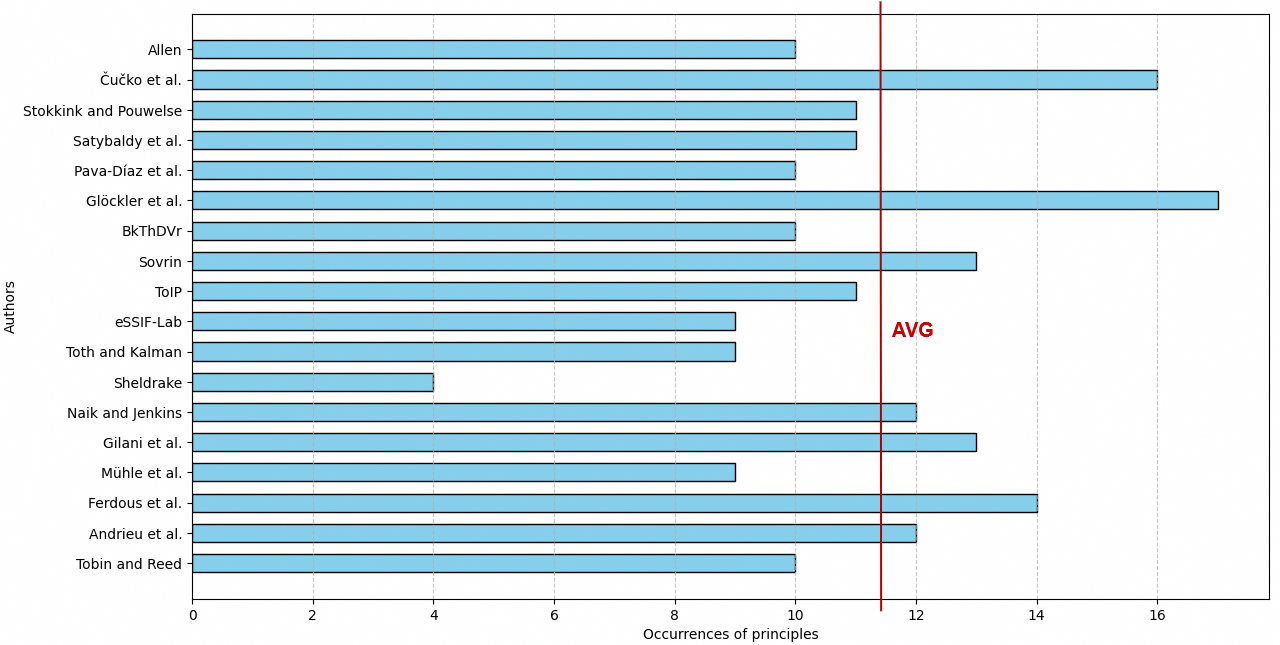
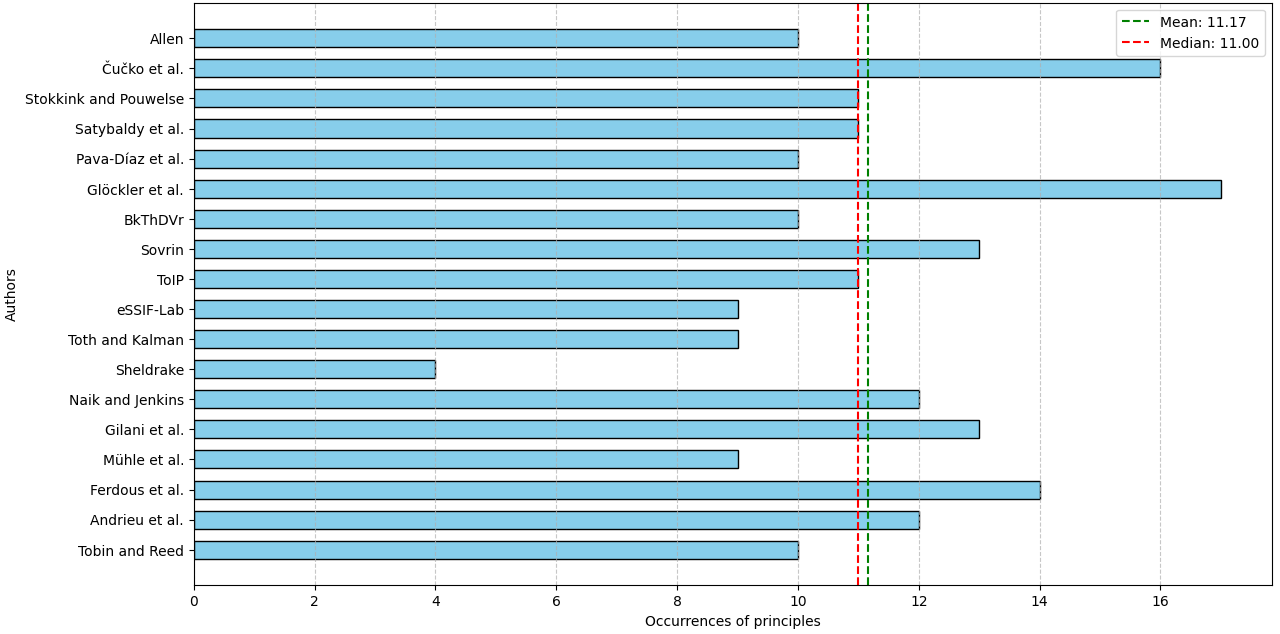
.

diff --git a/definition/program/recording_of_principles/Occurrences_principles.py b/definition/program/recording_of_principles/Occurrences_principles.py
@@ -24,22 +24,34 @@ dati = np.array([
     [1, 1, 1, 1, 1, 1, 1, 1, 1, 1, 0, 0, 0, 0, 0, 0, 0, 0, 0, 0, 0, 0, 0, 0, 0, 0, 0, 0, 0, 0, 0, 0, 0, 0],  # Allen
 ])
 
+# Compute occurrences per author
 sum_values = np.sum(dati[::-1], axis=1)
 
+# Calculate mean, median, and standard deviation
+media_occurrences = np.mean(sum_values)
+mediana_occurrences = np.median(sum_values)
+std_dev_occurrences = np.std(sum_values)
+
+# Create figure and plot
 plt.figure(figsize=(10, 6))
 bars = plt.barh(range(len(autori)), sum_values, color='skyblue', edgecolor="black", height=0.6)
+
+# Add mean and median lines
+plt.axvline(media_occurrences, color='green', linestyle='dashed', linewidth=1.5, label=f'Mean: {media_occurrences:.2f}')
+plt.axvline(mediana_occurrences, color='red', linestyle='dashed', linewidth=1.5, label=f'Median: {mediana_occurrences:.2f}')
+
+# Labels and title
 plt.xlabel("Occurrences of principles")
 plt.ylabel("Authors")
 plt.title("")
 
-# Imposta le etichette invertendo l'asse
+# Set y-axis labels with reversed order
 plt.yticks(range(len(autori)), autori[::-1])  
+plt.gca().invert_yaxis()  # Invert y-axis
 
-# Inverti l'asse Y per far apparire l'ultimo autore in cima
-plt.gca().invert_yaxis()
-
+# Grid and legend
 plt.grid(axis='x', linestyle='--', alpha=0.7)
-plt.show()
+plt.legend()
 
-media_occurrences = np.mean(sum_values)
-print(f"Media delle occorrenze dei principi per autore: {media_occurrences:.2f}")
+# Show plot
+plt.show()

diff --git a/definition/Definition.md b/definition/Definition.md
@@ -120,7 +120,7 @@ The study of outliers helps identify anomalies in the distribution of principles
 ![Principles selection](/definition/images/principles_recording/Distribution.png)
 *Figure 4: The distribution of principles.*
 
-t-SNE is a dimensionality reduction technique that helps visualize complex data in two or three dimensions.[^wattenberg] It reduces high-dimensional data to two dimensions while preserving the local structure of the data. Although it captures non-linear relationships, it does not preserve global distances, making visual interpretation purely qualitative. Each blue dot represents a concept, term, or feature, with labels indicating their meanings. The x-axis is labeled "Dimension 1," and the y-axis is labeled "Dimension 2," but these dimensions do not have intrinsic meanings—they simply represent how t-SNE has projected the relationships between data points. Based on the labels, this plot displays scattered principles with no apparent clear pattern to highlight key concepts. While some potential outliers, such as "Validity" and "Freedom of Information," can be observed, this visualization remains purely qualitative and does not provide new insights.
+t-SNE is a dimensionality reduction technique that helps visualize complex data in two or three dimensions.[^wattenberg] It reduces high-dimensional data to two dimensions while preserving the local structure of the data. Although it captures non-linear relationships, it does not preserve global distances, making visual interpretation purely qualitative. Each blue dot represents a concept, term, or feature, with labels indicating their meanings. The x-axis is labeled "Dimension 1," and the y-axis is labeled "Dimension 2," but these dimensions do not have intrinsic meanings - they simply represent how t-SNE has projected the relationships between data points. Based on the labels, this plot displays scattered principles with no apparent clear pattern to highlight key concepts. While some potential outliers, such as "Validity" and "Freedom of Information," can be observed, this visualization remains purely qualitative and does not provide new insights.
 
 ![Principles selection](/definition/images/principles_recording/TSNE.png)
 *Figure 5: t-SNE visualization of conceptual relationship.*
@@ -130,27 +130,35 @@ The chart in Figure 6 iprovides a comparative analysis of the occurrence of SSI 
 ![Principles selection](/definition/images/principles_selection/Principles_selection2.png)
 *Figure 6: The distribution of principles.*
 
-The average value of citation occurrences is 27%, corresponding to the red line. This threashold allows to extract a subset of principles for SSI; namely, we selected principles cited by at least the 27% of the authors. This heuristic is a typified strategy that aids in making decisions efficiently by relying on practical rules.[^heuristic] Thus, the final list includes principles that surpass the red threshold in Figure 3. The final list is reported in [Table 3](https://cristianlepore.github.io/Self-Sovereign-Identity/definition/tables/principles_semplification/Principles_semplification1.html), and accounts for 15 principles - 10 from Allen plus five extending principles. Note that the merging process has collapsed some of the original names within the same cell. As a conclusive statement, we are aware that cutting principles at 25%, the work of some author may result incomplete. However, a shorter list of principles opens for a comparative analysis of their distribution.
+The median represents the central value of the distribution when the data is ordered in ascending order. In this case, with a median of 2.0, it means that half of the principles have an occurrence of 2 or lower, while the other half have a value of 2 or higher. This suggests a skewed distribution, where a few principles are very frequent, while many are rarely mentioned. Unlike the mean (5.91), which can be influenced by extremely high values, the median provides a more robust indication of the central tendency of the data. If the median is significantly lower than the mean, as in this case, it indicates an asymmetric distribution, where some principles appear much more frequently than others. This asymmetry is also reported by the histogram of the number of principles cited per author, available in the [Appendix A](#appendix-a-principles-per-author).
+
+The goal of the selection process is to select principles based on heuristics. Other than selecting principles above a threshold. Using the median as a threshold would select only the most representative principles relative to the lower half of the distribution. An alternative strategy could be to calculate the average between the mean and the median:
+
+$$\text{(1)} \quad \frac{\text{Mean} + \text{Median}}{2} = 3.96 ≈ 4 $$
+
+This intermediate threshold balances the most frequent principles with those that are moderately relevant, avoiding the inclusion of those that are too rare.
+
+This heuristic allows to extract a subset of principles for SSI; namely, principles cited by at least 4 authors, and is a typified strategy that aids in making decisions efficiently by relying on practical rules.[^heuristic] Thus, the final list is reported in [Table 3](https://cristianlepore.github.io/Self-Sovereign-Identity/definition/tables/principles_semplification/Principles_semplification1.html), and accounts for 15 principles - 10 from Allen plus five extending principles. Note that the merging process has collapsed some of the original names within the same cell.
 
 [Click to view the table 3.](https://cristianlepore.github.io/Self-Sovereign-Identity/definition/tables/principles_semplification/Principles_semplification1.html) *The final list of properties and their namings.*
 
-A shortened list of principles allows for a comparative analysis of their distribution in publications. For example, Figure 5 represents a histogram of the number of principles addressed by various authors. The x-axis indicates the frequency of principles covered, while the y-axis lists the authors. Notably, Čućko [^cucko] leads with the highest number of occurrences, showcasing extensive engagement with SSI principles. Other contributors, such as Allen, Sovrin, and eSSIF-Lab, demonstrate significant but slightly lower levels of coverage.[^allen][^sovrin][^essif] Conversely, other authors reference fewer principles, suggesting either a more selective approach or a narrower research scope.[^sheldrake][^andrieu] Overall, the chart underscores the varying levels of emphasis placed by different authors, with some offering comprehensive contributions while others take a more focused approach.
-
-![Occurrences of principles](/definition/images/principles_selection/Occurrences_principles.png)
-*Figure 4: A histogram of the number of principles cited per author.*
+Other than selecting principles above a threshold, it is worth noting other techniques that were considered but later dismissed.
 
 ###### Dismissed analysis
-Another metric concerns the evaluation of the degree of uncertainty of principles, known as entropy,[^pal] from the formula of Shannon[^lundheim]
+
+Considering other means to extract a subset of relevant properties from the analysis of the dataset is important to avoid biasing the analysis along a single path. The study of entropy provides an evaluation of the degree of uncertainty of principles from Figure 5 and highlights how skewed the data space is.[^pal] Shannon’s formula calculates entropy as a measure of the degree of uncertainty of a principle, based on the authors' citations.[^lundheim]
 
 $$
-\text{(1)} \quad H(p) = -\sum_{i=1}^{n} p_i \log_2 (p_i)
+\text{(2)} \quad H(p) = -\sum_{i=1}^{n} p_i \log_2 (p_i)
 $$
 
-which calculates the entropy as a measure of the degree of uncertainty of a principle, based on the authors' citations. A high entropy corresponds to a principle cited by manies, while a low value corresponds to a few citations. The entropy does not reflect the frequency, rather is a measeure of how messy is the distribution of probability. So, for a principles that is "predictable", namely frequently cited, the entropy will be low; In the same way, for principles that are almost always false, the entropy will be low as well. The reason is that their degree of predictability is the same. This is visible for principles like "Ownership and Control" and "Simple (see the [Appendix A](#appendix-a-entropy))."
+High entropy corresponds to a principle cited by many, while a low value corresponds to fewer citations. **Entropy** reflects how messy the probability distribution is. However, its analysis is limited in this case because it considers the predictability of a principle in terms of the number of occurrences and its intrinsic definition. Hence, rarely mentioned principles have low entropy because they are very predictable. On the other hand, frequently cited principles have the same entropy because they are discussed by many authors. The degree of predictability is the same for both, making entropy alone misleading in conveying this information. This is visible for principles like "Ownership and Control" and "Simple" (see the [Appendix A](#appendix-a-entropy)). Therefore, entropy should be accompanied by other heuristics, such as frequency analysis.
 
-Even further methods have been considered, but their analysis was not carried on. For example, the Principal Component Analysis (PCA) aims to produce new dimensions by combining the existing principles. These new dimensions will compromise the rest of our analysis on categorizations, because we deal with new principles and cannot rely on literature works. Also make it difficult to ground a definition of principle based on the literature becaue it shiffle the cards. Correlating principles with a study correlation was dismissed because it highlights latent relationships between principles - principles who may exhibit similar behaviors - and we do not want to speculate on that now.
+**PageRank** may provide a reasonably good ranking of principles based on their relevance. It helps search engines like Google decide which pages to display first when users search for a particular keyword.[^rogers] However, after receiving a ranking, it is necessary to set a threshold, which brings us back to the initial problem. Since ranking is not part of this analytical step, this method was promptly discarded.
 
-Additionally, we did not consider the importance of author based on their citation becuse some of our works from literature were carried out by community groups like the Trust Over IP,[^toip] and becase the identity field is young and immature. A bias on authors may shade the relevance of an article. Finally, we did not cluster principles for the same reason we do not rely on correlations.
+Other ranking methods based on weighted author publications were considered out of scope because the identity field is still immature, and bias toward certain authors may obscure the relevance of an article.
+
+Further methods were considered but not pursued, primarily because **Principal Component Analysis** (PCA) produces new dimensions by combining existing principles. Similar to t-SNE, these new dimensions may lead to information loss and compromise the rest of our analysis. Indeed, the goal is to preserve the original definition of principles. Principle correlation and **clustering** highlight latent relationships—principles that may exhibit similar behaviors—which is beyond the scope of this study at this stage.
 
 ### 1.3.4 Categorization
 A category is useful to "*illuminate a relationship between the subjects and objects of knowledge.*"[^mahalakshmi] In our case, the subjects and the objects are the principles and the SSI field respectively. However, a category is featured by attributes or specific properties that must be described at priori. In our case, past studies categorized the SSI principles as reported in the [Related Works](#12-related-works), but they missed to provide criteria for their content analysis. For this reason, our first goal is to analyze past studies to see if aggregated results may exhibit similarities of behaviours from authors, and categorizations.[^rai] Once done it, we aim to extract common features and categorize principles based on these features. Instrumental for this analysis is the creation of [Table 4](https://cristianlepore.github.io/Self-Sovereign-Identity/definition/tables/principles_classification/Principles_classification1), which outlines the categories from our literature review.
@@ -511,6 +519,13 @@ INSERIRE I RANKING DELLE PROPRIETA4 ALL4INTERNO DI QUESTA IMMAGINE
 ![Allen Principles Schema (Local)](/definition/images/SSI_process_flow/SSI_process_flow_raw.png)
 *SSI properties mapped within the general SSI process flow.[^allen]*
 
+## Appendix A: Principles per author
+
+A comparative analysis of principles cited per author is represented as a histogram, with the x-axis indicating the frequency of principles covered, while the y-axis listing the authors. Notably, Čućko [^cucko] leads with the highest number of occurrences, showcasing extensive engagement with SSI principles. Other contributors, such as Allen, Sovrin, and eSSIF-Lab, demonstrate significant but slightly lower levels of coverage.[^allen][^sovrin][^essif] Conversely, other authors reference fewer principles, suggesting either a more selective approach or a narrower research scope.[^sheldrake][^andrieu] Overall, the chart underscores the varying levels of emphasis placed by different authors, with some offering comprehensive contributions while others take a more focused approach.
+
+![Occurrences of principles](/definition/images/principles_selection/Occurrences_principles.png)
+*A histogram of the number of principles mentioned per author.*
+
 ## Appendix A: Entropy
 
 This bar chart visualizes the entropy values of various principles, with principles on the x-axis and entropy values on the y-axis. Higher entropy suggests more mentioning across authors, while lower entropy indicates fewer mentioning. Principles like "Existence and representation," "Usability and consistency," "Decentralization and autonomy," and "Self-generatable and independent" exhibit high entropy, indicating significant variability. Mid-range entropy is observed in "Ownership and control," "Access and availability," and "Interoperability." In contrast, "Privacy and minimal disclosure," "Security and protection," and "Auditability" have lower entropy, suggesting less authors discussing these principles. The chart structure makes it easier to compare entropy across principles, offering insights into which principles are more debated versus more stable.
@@ -763,3 +778,5 @@ The breakdown of responses to the 20 questions in the questionnaire.
 [^han]: Han, Jiawei, Jian Pei, and Hanghang Tong. Data mining: concepts and techniques. Morgan kaufmann, 2022.
 
 [^wattenberg]: Wattenberg, Martin, Fernanda Viégas, and Ian Johnson. "How to use t-SNE effectively." Distill 1.10 (2016): e2.
+
+[^rogers]: Rogers, Ian. "The Google Pagerank algorithm and how it works." (2002).
